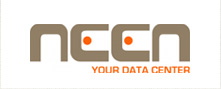
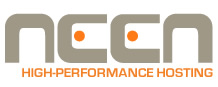
Aggiunto sponsor Neen

diff --git a/index.html b/index.html
@@ -486,7 +486,10 @@
 						<a class="banner" href="http://www.corley.it" title="Corley">
 							<img src="img/sponsor_corley.png" alt="Corley" width="300" height="120" />
 						</a>	
-											
+								
+						<a class="banner" href="http://www.neen.it/" title="Neen">
+							<img src="img/sponsor_neen.jpg" alt="Neen" width="300" height="120" />
+						</a>
 						<div class="clear"></div>
 					</div>
 					
